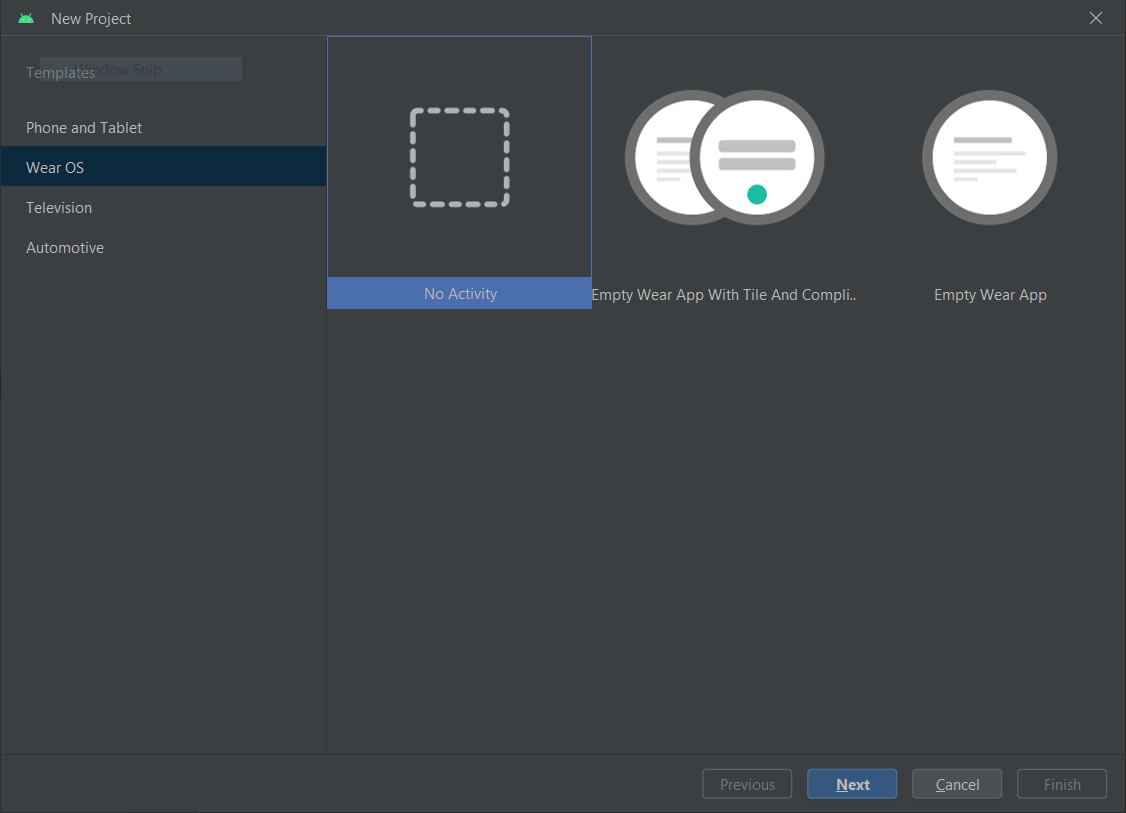
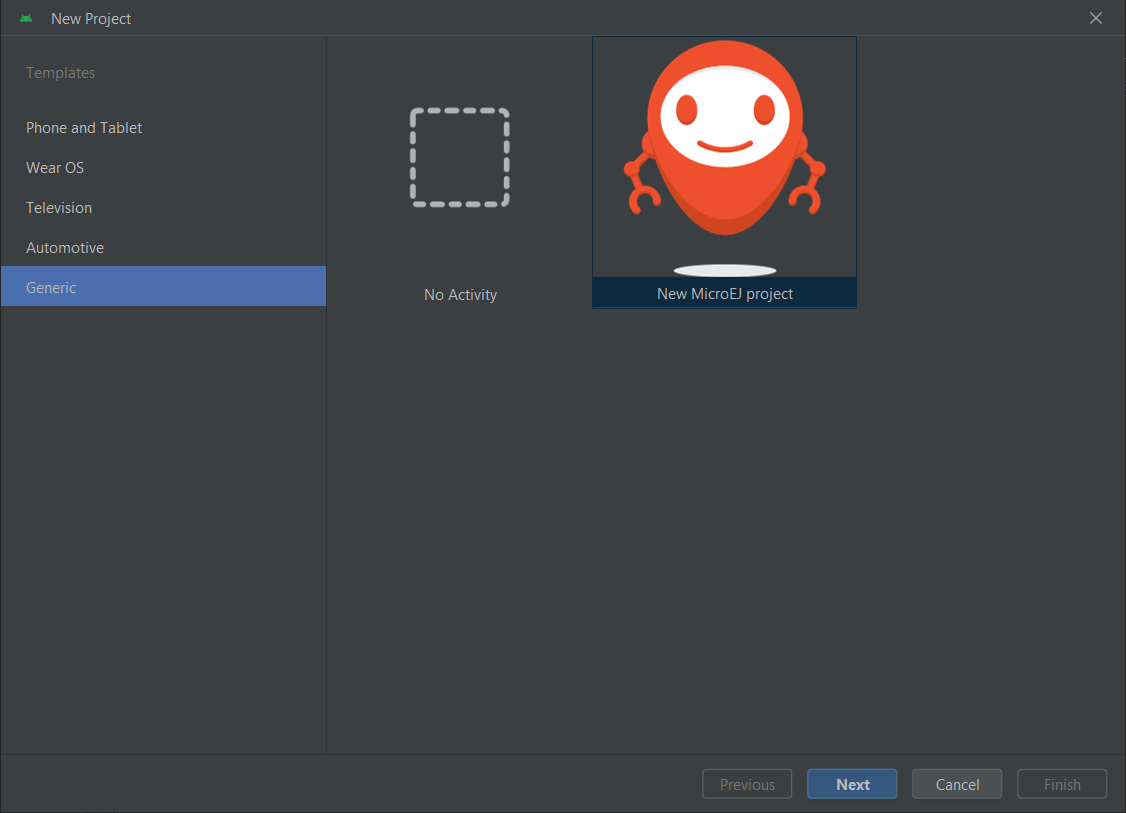
document project creation with Android Studio wizards

diff --git a/SDK6UserGuide/createProject.rst b/SDK6UserGuide/createProject.rst
@@ -18,7 +18,7 @@ This chapter explains the different ways to create a new project.
       The creation of a project with Android Studio is done as follows:
       
       - Click on :guilabel:`File` > :guilabel:`New` > :guilabel:`Project...`.
-      - Select a simple project type, for example :guilabel:`Wear OS` > :guilabel:`No Activity`.
+      - Select :guilabel:`Generic` > :guilabel:`New MicroEJ project`.
 
       .. figure:: images/android-studio-create-project-01.png
          :alt: Project Creation in Android Studio
@@ -31,16 +31,27 @@ This chapter explains the different ways to create a new project.
       - Fill the name of the project in the :guilabel:`Name` field.
       - Fill the package name of the project in the :guilabel:`Package name` field.
       - Select the location of the project in the :guilabel:`Save location` field.
-      - Select the language :guilabel:`Java` in the :guilabel:`Language` field.
       - Select :guilabel:`Kotlin` for the :guilabel:`Build configuration language` field.
       
       .. note::
         The SDK uses Kotlin as the default Gradle build script DSL. 
         The use of the Groovy build script DSL is still possible but not officially supported.
+            
+      .. figure:: images/android-studio-create-project-02.png
+         :alt: Project Creation in Android Studio
+         :align: center
+         :scale: 70%
       
+         Project Creation in Android Studio
+      
+      - Click on :guilabel:`Next` button.
+      - Fill the group of the artifact to publish in the :guilabel:`Group` field.
+      - Fill the version of the artifact to publish in the :guilabel:`Version` field.
+      - Select the module type among :guilabel:`Application` and :guilabel:`Addon-Library` in the drop-down list.
+      - If you selected :guilabel:`Application` module type, you can check :guilabel:`This is a kernel application` checkbox if your Application is a Kernel.
       - Click on :guilabel:`Finish` button.
       
-      .. figure:: images/android-studio-create-project-02.png
+      .. figure:: images/android-studio-create-project-03.png
          :alt: Project Creation in Android Studio
          :align: center
          :scale: 70%
@@ -49,52 +60,19 @@ This chapter explains the different ways to create a new project.
       
       - Change the view from :guilabel:`Android` to :guilabel:`Project` in the selectbox at the top of the project's files tree:
       
-      .. figure:: images/android-studio-create-project-03.png
+      .. figure:: images/android-studio-create-project-04.png
          :alt: Project View in Android Studio
          :align: center
          :scale: 70%
       
          Project View in Android Studio
-      
 
-      The SDK is only compatible with the Gradle version ``8.0.2`` or higher, so ensure that the project uses the right version :
-      
-      - Open the ``gradle/wrapper/gradle-wrapper.properties`` file.
-      - Update the Gradle version if it is needed:
-      
-         .. code-block::
-          
-            distributionUrl=https\://services.gradle.org/distributions/gradle-8.0.2-bin.zip
-      
-      If you want to know more about the Gradle Wrapper, go to the :ref:`sdk_6_create_project_gradle_wrapper` section.
+      .. note::
+         The newly created Gradle project uses Gradle Wrapper with Gradle version ``8.2``.
+         Refer to the :ref:`sdk_6_create_project_gradle_wrapper` section for more information.
 
-      The project created by Android Studio is a multi-project with a single subproject (named ``app``).
-      This subproject is an Android application (Gradle ``com.android.application`` plugin). 
-      The ``build.gradle.kts`` and the ``settings.gradle.kts`` files have to be updated to make it a MicroEJ project:
-      
-      - Open the ``app/build.gradle.kts`` file.
-      - Erase its whole content.
-      - :ref:`Configure the project <sdk_6_create_project_configure_project>` depending on the module nature you want to build.
-      - Declare the dependencies required by your project in the ``dependencies`` block. For example::
-      
-            dependencies {
-                implementation("ej.api:edc:1.3.5")
-            }
-      
-      - Open the ``settings.gradle.kts`` file.
-      - Remove everything except these 2 lines::
-
-            rootProject.name = "My Application"
-            include(":app")
-
-      - Delete the following files since they are not required for a MicroEJ project:
-
-        - ``build.gradle.kts``
-        - ``gradle.properties``
-        - ``app/libs``
-        - ``app/src/main/res``
-        - ``app/src/main/AndroidManifest.xml``
-        - ``app/src/proguard-rules.pro``
+      The project created by the wizard is a multi-project with a single subproject (named ``app``).
+      This subproject is a MicroEJ Application or Add-On Library, depending on the module type that has been chosen.
 
       .. note::
          By default, Android Studio automatically saves any file change, 

diff --git a/SDK6UserGuide/install.rst b/SDK6UserGuide/install.rst
@@ -125,36 +125,68 @@ Once your favorite IDE is installed, the MicroEJ plugin must be installed.
 
 .. tabs::
 
-   .. tab:: Android Studio / IntelliJ IDEA
+   .. tab:: Android Studio
 
-      Follow these steps to install the latest stable version of the MicroEJ plugin for Android Studio or IntelliJ IDEA:
+      Follow these steps to install the latest stable version of the MicroEJ plugin for Android Studio:
       
-      - In Android Studio or IntelliJ IDEA, open the Settings window (menu :guilabel:`File` > :guilabel:`Settings...` on Windows and Linux, 
-        menu :guilabel:`IntelliJ IDEA` / :guilabel:`Android Studio` > :guilabel:`Settings...` on macOS).
+      - In Android Studio, open the Settings window (menu :guilabel:`File` > :guilabel:`Settings...` on Windows and Linux, 
+        menu :guilabel:`Android Studio` > :guilabel:`Settings...` on macOS).
       - Go to :guilabel:`Plugins` menu.
-      - In the search field, type ``MicroEJ``:
+      - In the search field, type ``MicroEJ for Android Studio``:
       
-      .. figure:: images/intellij-install-plugin.png
-         :alt: Android Studio and IntelliJ IDEA Plugin Installation
+      .. figure:: images/android-studio-install-plugin.png
+         :alt: Android Studio Installation
          :align: center
          :scale: 70%
       
-         Android Studio and IntelliJ IDEA Plugin Installation
+         Android Studio Plugin Installation
       
       - Click on the :guilabel:`Install` button.
       - In the upcoming :guilabel:`Third-Party Plugins Notice` window, click on the :guilabel:`Accept` button.
             
          .. figure:: images/intellij-install-plugin-warning.png
-            :alt: Android Studio and IntelliJ IDEA Plugin Installation - Third-Party Plugins Notice
+            :alt: Android Studio Plugin Installation - Third-Party Plugins Notice
             :align: center
             :scale: 70%
          
-            Android Studio and IntelliJ IDEA Plugin Installation - Third-Party Plugins Notice
+            Android Studio Plugin Installation - Third-Party Plugins Notice
+
+      - Click on the :guilabel:`Restart IDE` button.
+      
+      .. warning::
+       There used to be a unique plugin for both Android Studio and IntelliJ IDEA. Each IDE now has its own dedicated plugin,
+       so if the IntelliJ IDEA ``MicroEJ`` plugin has been previously installed, you should uninstall it and install ``MicroEJ for Android Studio`` instead.
+
+   .. tab:: IntelliJ IDEA
+
+      Follow these steps to install the latest stable version of the MicroEJ plugin for IntelliJ IDEA:
+      
+      - In IntelliJ IDEA, open the Settings window (menu :guilabel:`File` > :guilabel:`Settings...` on Windows and Linux, 
+        menu :guilabel:`IntelliJ IDEA` > :guilabel:`Settings...` on macOS).
+      - Go to :guilabel:`Plugins` menu.
+      - In the search field, type ``MicroEJ``:
+      
+      .. figure:: images/intellij-install-plugin.png
+         :alt: IntelliJ IDEA Plugin Installation
+         :align: center
+         :scale: 70%
+      
+         IntelliJ IDEA Plugin Installation
+      
+      - Click on the :guilabel:`Install` button.
+      - In the upcoming :guilabel:`Third-Party Plugins Notice` window, click on the :guilabel:`Accept` button.
+            
+         .. figure:: images/intellij-install-plugin-warning.png
+            :alt: IntelliJ IDEA Plugin Installation - Third-Party Plugins Notice
+            :align: center
+            :scale: 70%
+         
+            IntelliJ IDEA Plugin Installation - Third-Party Plugins Notice
 
       - Click on the :guilabel:`Restart IDE` button.
 
       To install the snapshot version of the MicroEJ plugin, please refer to :ref:`sdk_6_install_plugin_snapshot`.
-      
+            
    .. tab:: Eclipse
 
       Follow these steps to install the latest stable version of the MicroEJ plugin for Eclipse:
